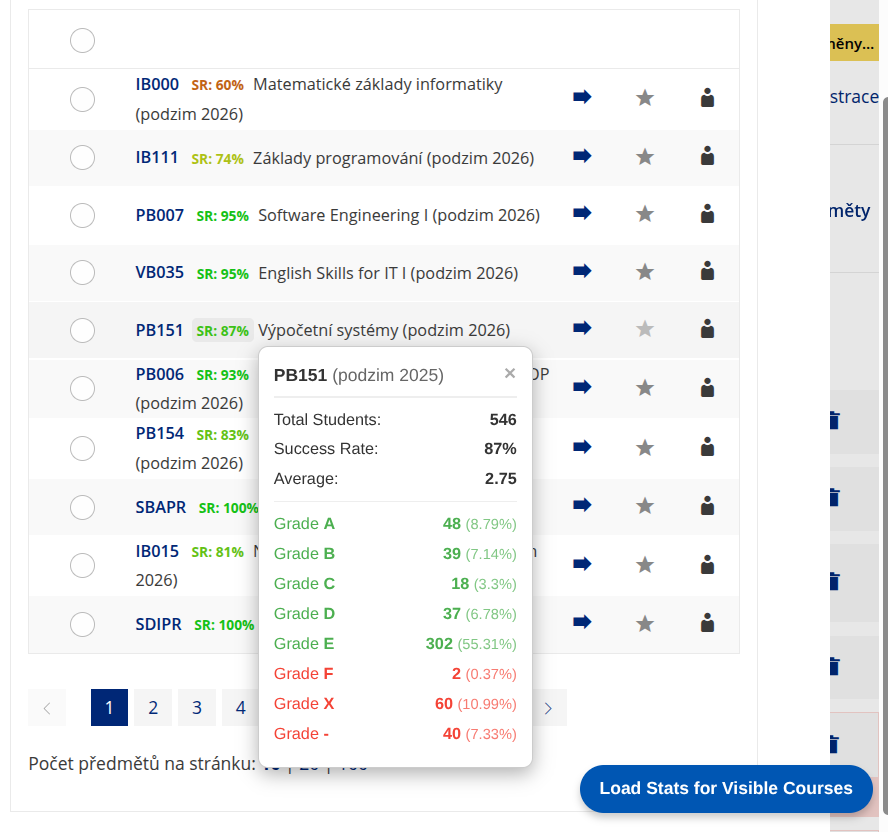
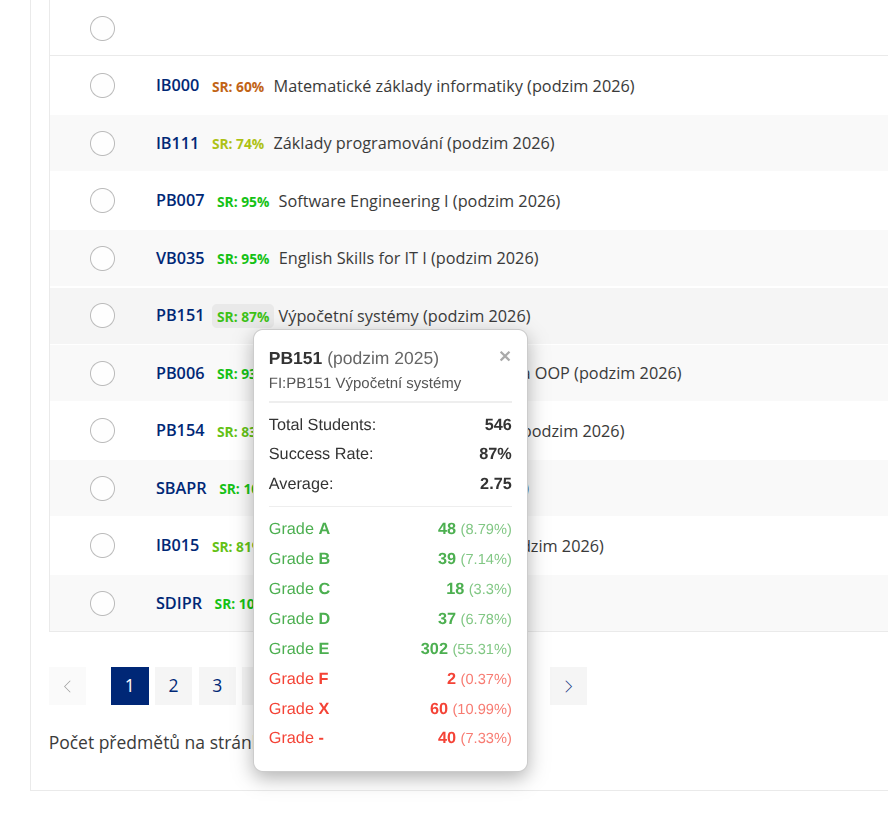
upd: new screenshot and readme

diff --git a/readme.md b/readme.md
@@ -1,44 +1,49 @@
 # IS MUNI Course Stats Enhancer
 
-A lightweight JavaScript script that dynamically fetches and displays course success rates directly next to course links on IS MUNI. It prevents you from having to click through multiple pages just to see if a course is easy or hard!
+A browser utility that dynamically fetches and displays course success rates  directly next to course links on IS MUNI. It automates the process of evaluating courses without requiring you to manually click through deep links.
 
 ![IS MUNI Course Stats Screenshot](images/screenshot.png)
 
-## Features
-* **At-a-Glance Success Rates:** Adds a color-coded badge (e.g., `SR: 90%`) next to every course link. Colors scale from Red (low success) to Green (high success).
-* **Detailed Popups:** Click on any badge to view a detailed popup containing the semester, total student count, average grade, and a breakdown of all assigned grades (A, B, C, D, E, F, Z, etc.).
-* **Pass/Fail Highlighting:** Grades in the popup are automatically colored green (pass) or red (fail).
-* **Smart Viewport Loading:** To prevent making 1000+ requests at once and overloading the IS MUNI servers, stats are only fetched for courses that are *currently visible on your screen* when you click the floating **"Load Stats for Visible Courses"** button. Simply scroll down to the courses you are interested in and click the button to load the next batch!
+## Core Features
+* **At-a-Glance Success Rates:** Adds a color-coded badge (e.g., `SR: 90%`) next to course links. Colors automatically scale from red (low success) to green (high success).
+* **Detailed Popups:** Click on any badge to view a detailed popup containing the course code, cleaned course name, semester, total student count, average grade, and a categorized grade breakdown.
+* **Smart Viewport Fetching:** Uses the browser's native `IntersectionObserver` to trigger fetches *only* when a course link actually scrolls into view, keeping network traffic and server load minimal.
+* **Deduplicated Network Requests:** If the same course link appears multiple times on your screen, the script automatically batches them. It loads the invisible iframe only once, updating all associated badges simultaneously.
 
 ---
 
-## How to Use
+## Installation & Usage
 
-There are two ways to use this script: 
+### Option 1: User JavaScript and CSS
+This is a highly popular extension for applying custom scripts and styles to specific websites.
 
-### Method 1: The Quick Way (Browser Developer Console)
-This method is temporary and needs to be repeated every time you refresh the page.
+1. Install **User JavaScript and CSS** for your browser:
+   * **Chrome Web Store:** [User JavaScript and CSS](https://chromewebstore.google.com/detail/nbhcbdghjpllgmfilhnhkllmkecfmpld)
+2. Open [is.muni.cz](https://is.muni.cz/).
+3. Click the extension icon and click **"Add New"** (or create a new rule for `is.muni.cz`).
+4. In the left panel (the **JS** tab), paste the entire script code.
+5. In the URL targeting settings on the right, ensure the rule matches `is.muni.cz`.
+6. Click **Save**. The script will now execute automatically whenever you browse course directories on IS MUNI.
 
-1. Open any page on [is.muni.cz](https://is.muni.cz/) that contains course links (e.g., your study planner or course registration page).
-2. Open the browser's Developer Console by pressing `F12` (or `Ctrl + Shift + J` on Windows / `Cmd + Option + J` on Mac).
-3. Copy the entire JavaScript code and paste it into the Console tab.
-4. Press `Enter`.
-5. A blue button will appear in the bottom-right corner of the screen. Click **"Load Stats for Visible Courses"** to see the magic happen!
+---
 
-### Method 2: The Permanent Way (Browser Extension / Userscript)
-This is the recommended method. The script will run automatically every time you visit IS MUNI.
+### Option 2: Tampermonkey (Standard Userscript Manager)
+A dedicated userscript manager that supports automatic script updates.
 
-1. Install a Userscript manager extension for your browser, such as **[Tampermonkey](https://www.tampermonkey.net/)** or **[Violentmonkey](https://violentmonkey.github.io/)**.
-2. Click on the extension icon and select **"Create a new script"**.
-3. Delete any default code in the editor and paste the provided code.
-4. **Important:** Add this metadata block to the very top of the script so the extension knows where to run it:
+1. Install **Tampermonkey** for your browser:
+   * **Official Website:** [Tampermonkey.net](https://www.tampermonkey.net/)
+   * **Chrome Web Store:** [Tampermonkey for Chrome](https://chromewebstore.google.com/detail/dhdgffkkebhmkfjojejmpbldmpobfkfo)
+   * **Firefox Add-ons:** [Tampermonkey for Firefox](https://addons.mozilla.org/firefox/addon/tampermonkey/)
+   * **Mac App Store:** [Tampermonkey for Safari](https://apps.apple.com/app/tampermonkey/id1482490089)
+2. Click the extension icon and select **"Create a new script"**.
+3. Replace the template code with the full script, ensuring you have the correct metadata block at the very top:
 
 ```javascript
 // ==UserScript==
 // @name         IS MUNI Course Stats Enhancer
 // @namespace    http://tampermonkey.net/
-// @version      1.0
-// @description  Displays course success rates on IS MUNI directly next to the links.
+// @version      1.1
+// @description  Displays course success rates and names on IS MUNI next to links as you scroll.
 // @match        *://is.muni.cz/*
 // @grant        none
 // ==/UserScript==
@@ -47,18 +52,20 @@ This is the recommended method. The script will run automatically every time you
     // ... paste the rest of the script here ...
 })();
 ```
-5. Save the script (`Ctrl + S` or `Cmd + S`).
-6. Refresh your IS MUNI page. The floating blue button will now be waiting for you in the bottom right corner!
+4. Save the script (`Ctrl + S` or `Cmd + S`).
 
 ---
 
-## Configuration
+### Option 3: Developer Console (Temporary Run)
+Useful for quick testing without installing extensions.
 
-If you want to change which grades are considered a "pass" or a "fail" (which affects the colors inside the detailed popup), you can edit the `GRADE_CATEGORIES` dictionary at the very top of the script:
+1. Navigate to any page on [is.muni.cz](https://is.muni.cz/) containing course links.
+2. Open the developer tools by pressing `F12` (or `Ctrl + Shift + J` / `Cmd + Option + J`).
+3. Paste the entire script code into the **Console** tab and press **Enter**.
+4. Scroll down to see the loading badges appear as links enter your viewport.
 
-```javascript
-const GRADE_CATEGORIES = {
-    'A': 'pass', 'B': 'pass', 'C': 'pass', 'D': 'pass', 'E': 'pass', 'Z': 'pass', 'P': 'pass',
-    'F': 'fail', '-': 'fail', 'N': 'fail', 'X': 'fail',
-};
-```
+*Note: You can use basically **any** browser extension or add-on that allows you to run custom JavaScript on specific pages. As long as the tool can inject and run this script under the `is.muni.cz` domain, the enhancer will function properly.*
+
+---
+
+Made with ❤ by Futupas. If you want to thank me, you can always buy me a beer
